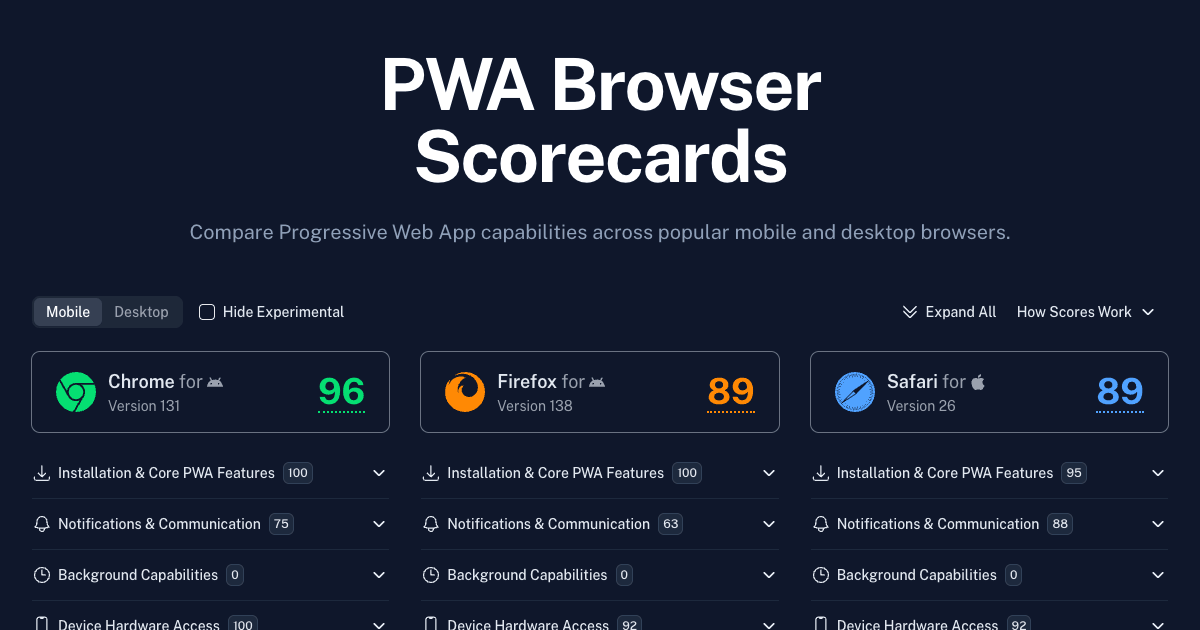
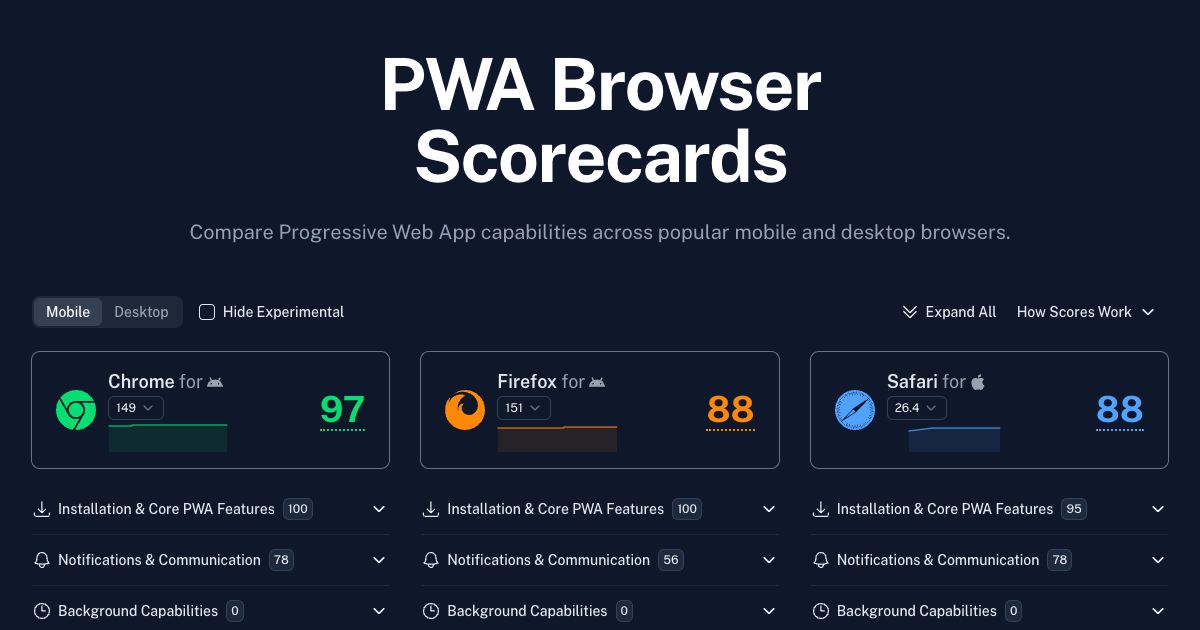
fix(ui): inline the browser version selector beside the browser name
Move the version <USelect> up next to the browser name instead of a separate line below, tighten spacing, and constrain the dropdown width. Regenerates og-image.png for the updated header layout.

diff --git a/app/components/PWAFeatureBrowser.vue b/app/components/PWAFeatureBrowser.vue
@@ -632,7 +632,7 @@ function createCategoryItems(group: PWAFeatureGroup) {
                       class="w-10 h-10"
                     />
                     <div>
-                      <div class="text-lg flex items-center gap-1">
+                      <div class="text-lg flex items-center gap-2">
                         <span class="font-semibold">{{ browser.name }}</span>
                         <span
                           class="font-normal text-gray-500 dark:text-gray-400 flex items-center gap-1"
@@ -649,8 +649,6 @@ function createCategoryItems(group: PWAFeatureGroup) {
                             browser.platformLabel
                           }}</span>
                         </span>
-                      </div>
-                      <div class="text-sm text-gray-500 dark:text-gray-400 flex items-center gap-2">
                         <USelect
                           :model-value="selectedVersion[browser.id]"
                           :items="(releasesByBrowser[browser.id] ?? []).map(r => ({
@@ -660,12 +658,13 @@ function createCategoryItems(group: PWAFeatureGroup) {
                             value: r.version
                           }))"
                           size="xs"
+                          :ui="{ content: 'w-fit min-w-(--reka-select-trigger-width) dark:ring-gray-500' }"
                           :aria-label="t('browser.versionSelect', { name: browser.name })"
                           @update:model-value="(v) => onVersionSelect(browser.id, v)"
                         />
                         <span
                           v-if="isVersionLoading[browser.id]"
-                          class="animate-pulse"
+                          class="text-sm text-gray-500 dark:text-gray-400 animate-pulse"
                         >{{ t('browser.loading') }}</span>
                       </div>
                       <button
